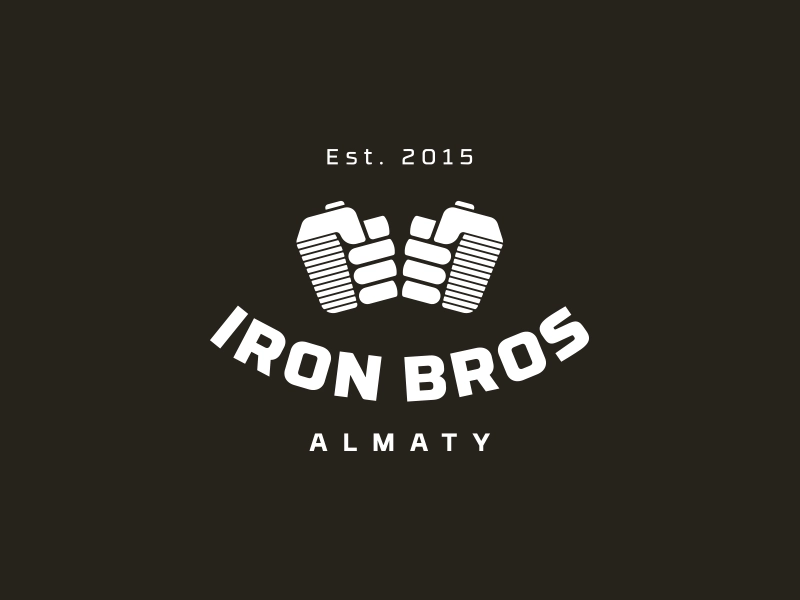
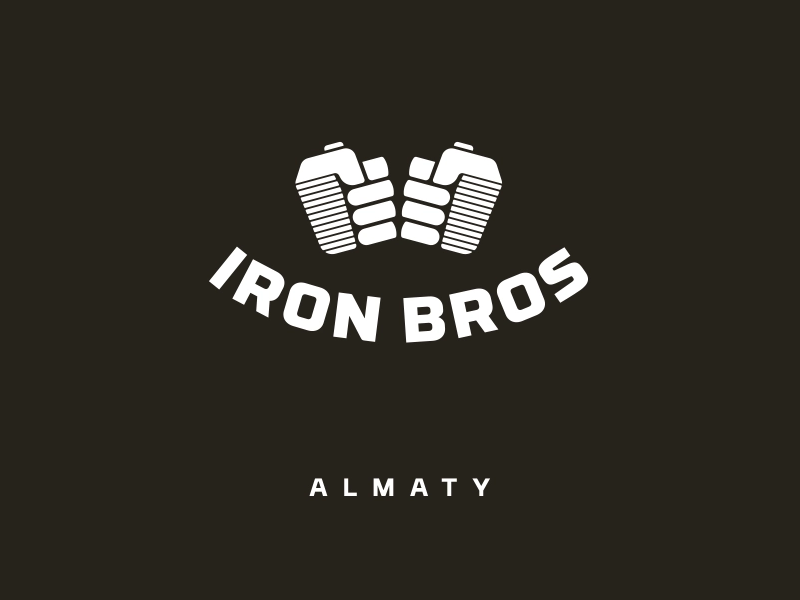
done

diff --git a/styles/style.css b/styles/style.css
@@ -6,9 +6,6 @@ body {
     background-color: black;
 }
 
-.non-display {
-    display: none;
-}
 
 .hero {
     display: block;
@@ -18,6 +15,13 @@ body {
 .game-intro {
     height: 100vh;
     width: 100vw;
+    background-image: url(../assets/background/ironbros.png);
+    background-repeat: no-repeat;
+    background-size: contain;
+    background-position: center center;
+    display: flex;
+    align-items: self-end;
+    justify-content: center;
 }
 
 .logo-img {
@@ -27,15 +31,22 @@ body {
     width: 50%;
 }
 
-body button {
+.non-display {
+    display: none;
+}
+
+#start-button {
+    height: 75px;
+    width: 250px;
     font-size: 30px;
     background-color: #870007;
     color: #fff;
-    padding: 20px 40px;
+    padding: 10px 20px;
     border: 0;
     box-shadow: 0;
     border-radius: 5px;
-    margin-bottom: 20px;
+    margin-bottom: 225px;
+    justify-content: center;
 }
 
 canvas {

diff --git a/src/game.js b/src/game.js
@@ -89,10 +89,6 @@ const Game = {
                 }
             }
 
-            if (this.framesCounter % 30 === 0) {
-                this.spaceship.animate();
-            }
-
             if (this.framesCounter % 15 === 0) {
                 this.enemies.forEach(enemy => {
                     enemy.animate();

diff --git a/index.html b/index.html
@@ -12,7 +12,6 @@
 <body>
     <div class="hero">
         <div class="game-intro">
-            <img src="./assets/background/ironbros.png" alt="" class="logo-img" />
             <button id="start-button">StartGame</button>
         </div>
         <div class="game">
